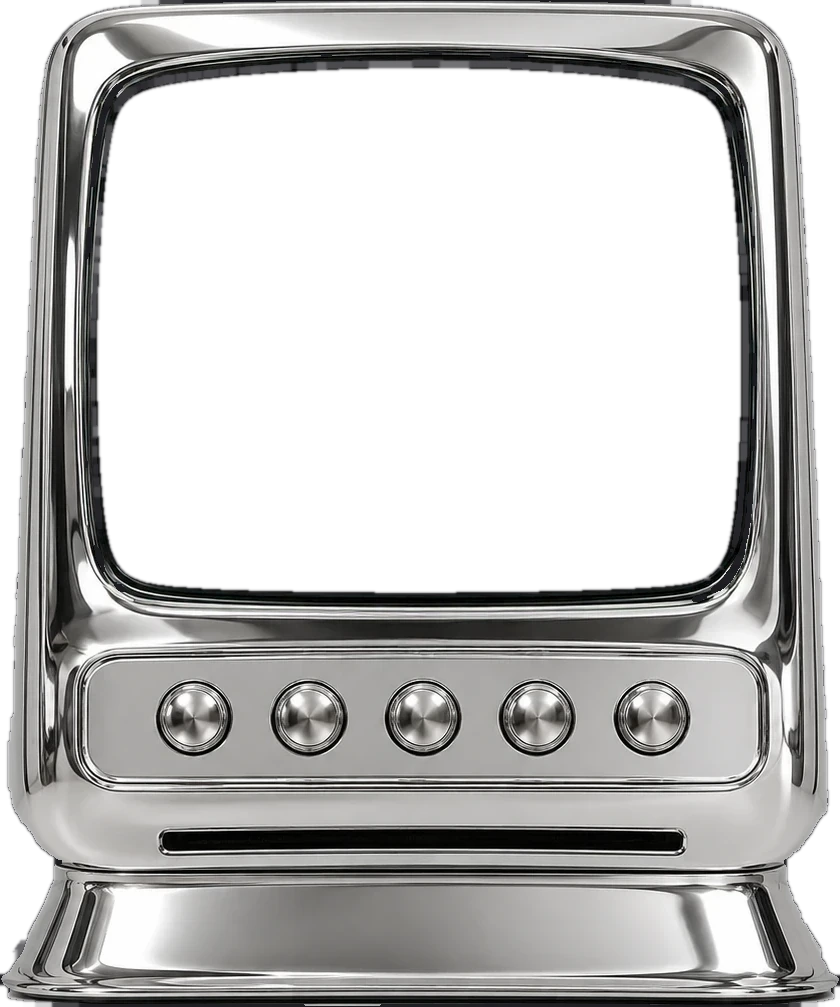
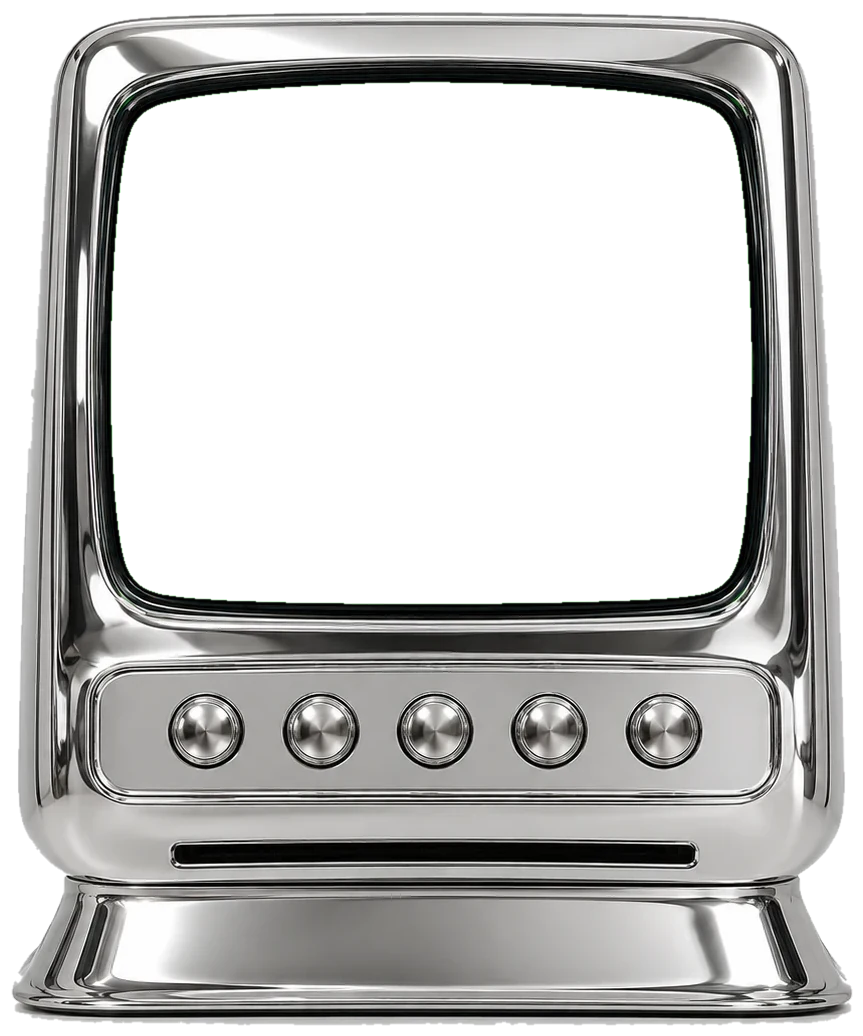
Labs: TV re-cut from the original, whole and clean; screen refitted

diff --git a/index.html b/index.html
@@ -1464,7 +1464,7 @@
   .ml-list li.on, .ml-list li:hover { opacity: 1; }
   .ml-list button { all: unset; cursor: pointer; font-family: 'MW'; text-transform: uppercase; color: var(--w); }
   .ml-list button:focus-visible { outline: 2px solid var(--w); outline-offset: 3px; }
-  .ml-mach { position: relative; height: min(84vh, 62vw); aspect-ratio: 840 / 1007; filter: drop-shadow(0 40px 40px rgb(40 20 100 / .45)); }
+  .ml-mach { position: relative; height: min(84vh, 62vw); aspect-ratio: 863 / 1036; filter: drop-shadow(0 40px 40px rgb(40 20 100 / .45)); }
   .ml-img { position: absolute; inset: 0; width: 100%; height: 100%; pointer-events: none; }
   .ml-scr { position: absolute; overflow: hidden; background: radial-gradient(90% 90% at 50% 45%, #4A2FA8 0%, #2A1A66 70%, #1F1250 100%); border-radius: 9%; }
   .ml-scr > * { position: absolute; inset: 4%; width: 92%; height: 92%; object-fit: contain; opacity: 0; transition: opacity .45s ease; }
@@ -2022,9 +2022,9 @@
     <ol class="ml-list" id="mllist"><li data-i="0"><button type="button" data-n="01">AI Images</button></li><li data-i="1"><button type="button" data-n="02">Campaigns</button></li><li data-i="2"><button type="button" data-n="03">Reels</button></li><li data-i="3"><button type="button" data-n="04">Websites</button></li><li data-i="4"><button type="button" data-n="05">Smart Branding</button></li></ol>
   </div>
   <div class="ml-mach" id="mlmach">
-    <div class="ml-scr" id="mlscr" style="left:9.04%;top:4.06%;width:82.04%;height:56.72%"></div>
-    <img class="ml-img" src="img/labs/machine.webp" alt="" width="840" height="1007">
-    <div class="ml-bez" style="left:9.04%;top:4.06%;width:82.04%;height:56.72%"></div>
+    <div class="ml-scr" id="mlscr" style="left:12.86%;top:7.92%;width:74.28%;height:50.39%"></div>
+    <img class="ml-img" src="img/labs/machine.webp?v=2" alt="" width="863" height="1036">
+    <div class="ml-bez" style="left:12.86%;top:7.92%;width:74.28%;height:50.39%"></div>
     <button type="button" class="ml-b" data-n="01" data-i="0" aria-label="AI Images" title="AI Images" style="left:23.10%;top:71.30%;width:9.05%"></button><button type="button" class="ml-b" data-n="02" data-i="1" aria-label="Campaigns" title="Campaigns" style="left:36.67%;top:71.30%;width:9.05%"></button><button type="button" class="ml-b" data-n="03" data-i="2" aria-label="Reels" title="Reels" style="left:50.24%;top:71.30%;width:9.05%"></button><button type="button" class="ml-b" data-n="04" data-i="3" aria-label="Websites" title="Websites" style="left:63.81%;top:71.30%;width:9.05%"></button><button type="button" class="ml-b" data-n="05" data-i="4" aria-label="Smart Branding" title="Smart Branding" style="left:77.62%;top:71.30%;width:9.05%"></button>
     <div class="ml-paper" id="mlpaper" style="left:19.93%;width:60.50%;top:83.42%"></div>
   </div>
